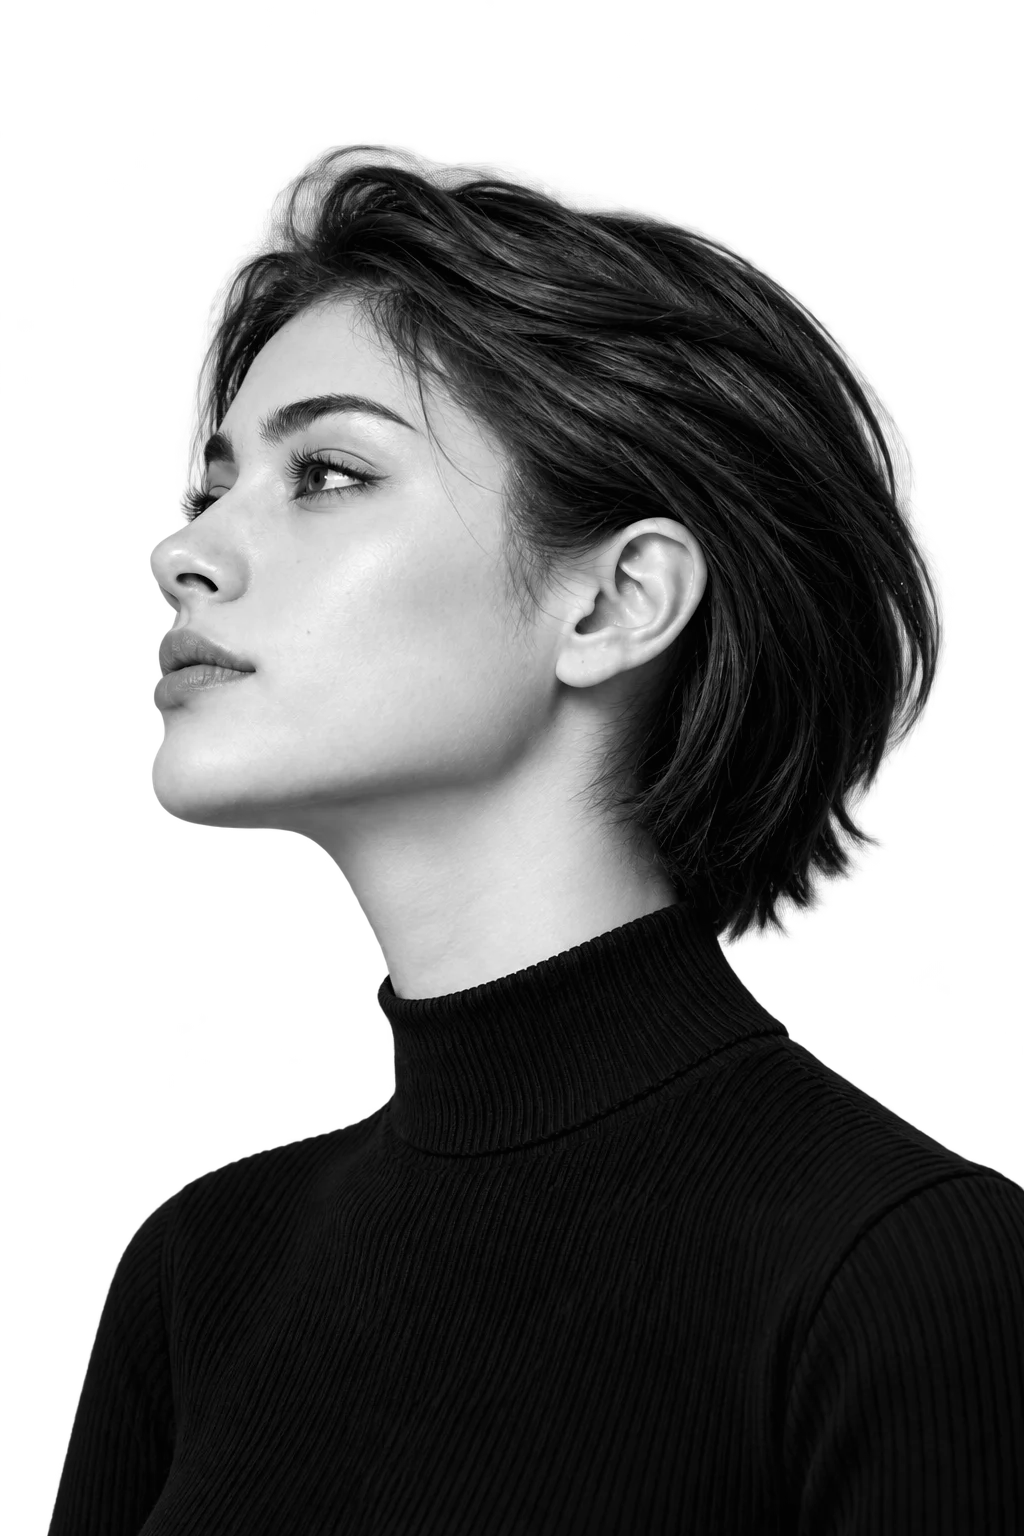
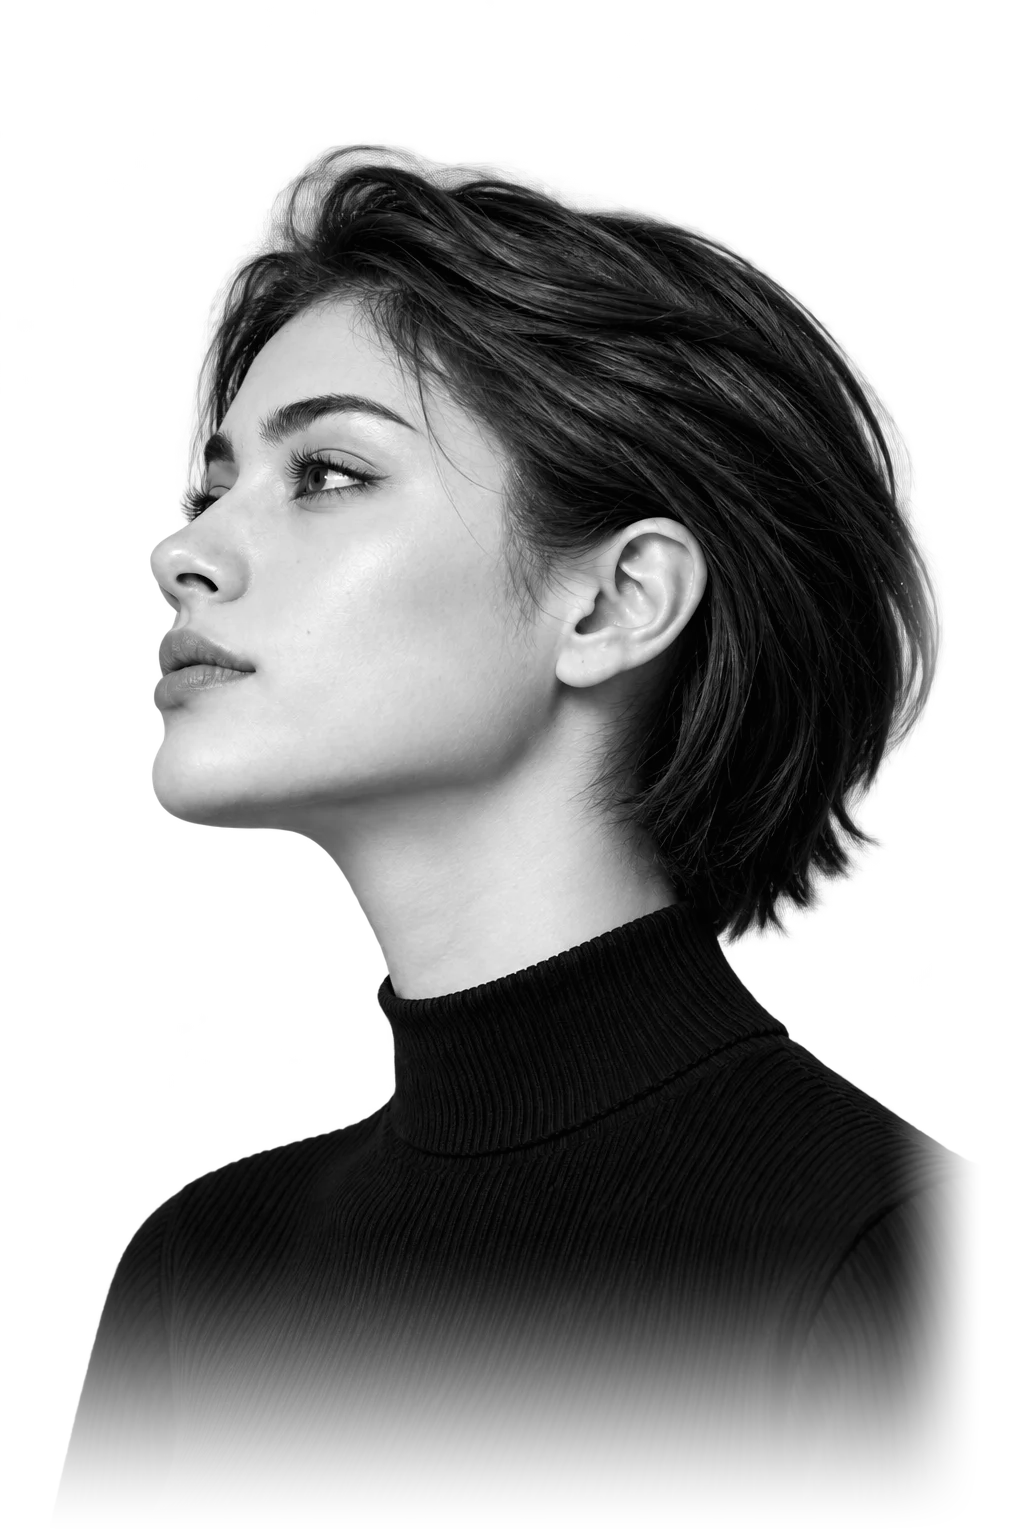
Bake hero portrait fade into the image alpha; drop CSS mask that drew an edge hairline

Changed region(s): [[0.0312, 0.7188, 1.0, 1.0], [0.875, 0.3438, 0.9375, 0.4688]]

diff --git a/scripts/make-hero-portrait.ts b/scripts/make-hero-portrait.ts
@@ -1,8 +1,15 @@
 /* Usage: npx tsx scripts/make-hero-portrait.ts "<cut-out PNG with transparent background>"
  * Writes public/examples/portrait-cutout.webp: a greyscale RGBA version for the black-and-white hero.
+ * The soft fade at the cropped right shoulder and at the bottom is baked into the alpha channel. A CSS mask
+ * is avoided on purpose: some browsers draw a hairline at a masked element's edge.
  * Built from explicit RGBA bytes because a two-channel sharp pipeline drops the alpha channel. */
 import { mkdirSync } from "node:fs";
 import sharp from "sharp";
+
+const smooth = (t: number) => {
+  const c = Math.max(0, Math.min(1, t));
+  return c * c * (3 - 2 * c);
+};
 
 async function main() {
   const src = process.argv[2];
@@ -13,10 +20,15 @@ async function main() {
   const { data: rgba, info } = await sharp(src).ensureAlpha().raw().toBuffer({ resolveWithObject: true });
   const out = Buffer.alloc(info.width * info.height * 4);
   for (let i = 0, o = 0; i < rgba.length; i += 4, o += 4) {
+    const px = i / 4;
+    const x = (px % info.width) / info.width;
+    const y = Math.floor(px / info.width) / info.height;
+    // Fully clear from 96% across, so nothing opaque touches the image's right edge.
+    const fade = (1 - smooth((x - 0.86) / 0.1)) * (1 - smooth((y - 0.8) / 0.2));
     const luma = 0.2126 * rgba[i] + 0.7152 * rgba[i + 1] + 0.0722 * rgba[i + 2];
     const g = Math.max(0, Math.min(255, Math.round(luma * 1.08 - 6)));
     out[o] = out[o + 1] = out[o + 2] = g;
-    out[o + 3] = rgba[i + 3];
+    out[o + 3] = Math.round(rgba[i + 3] * fade);
   }
   mkdirSync("public/examples", { recursive: true });
   const res = await sharp(out, { raw: { width: info.width, height: info.height, channels: 4 } })

diff --git a/src/components/landing/Hero.tsx b/src/components/landing/Hero.tsx
@@ -81,16 +81,6 @@ export function Hero() {
             src="/examples/portrait-cutout.webp"
             alt="Side-profile portrait of a woman with a small gold hoop earring (AI-generated image)"
             className="h-full w-full object-contain object-bottom"
-            style={{
-              WebkitMaskRepeat: "no-repeat",
-              maskRepeat: "no-repeat",
-              WebkitMaskSize: "100% 100%",
-              maskSize: "100% 100%",
-              WebkitMaskImage: "linear-gradient(to right, #000 0, #000 86%, transparent 97%), linear-gradient(to bottom, #000 80%, transparent 100%)",
-              maskImage: "linear-gradient(to right, #000 0, #000 86%, transparent 97%), linear-gradient(to bottom, #000 80%, transparent 100%)",
-              WebkitMaskComposite: "source-in",
-              maskComposite: "intersect",
-            }}
           />
         </motion.div>
 
